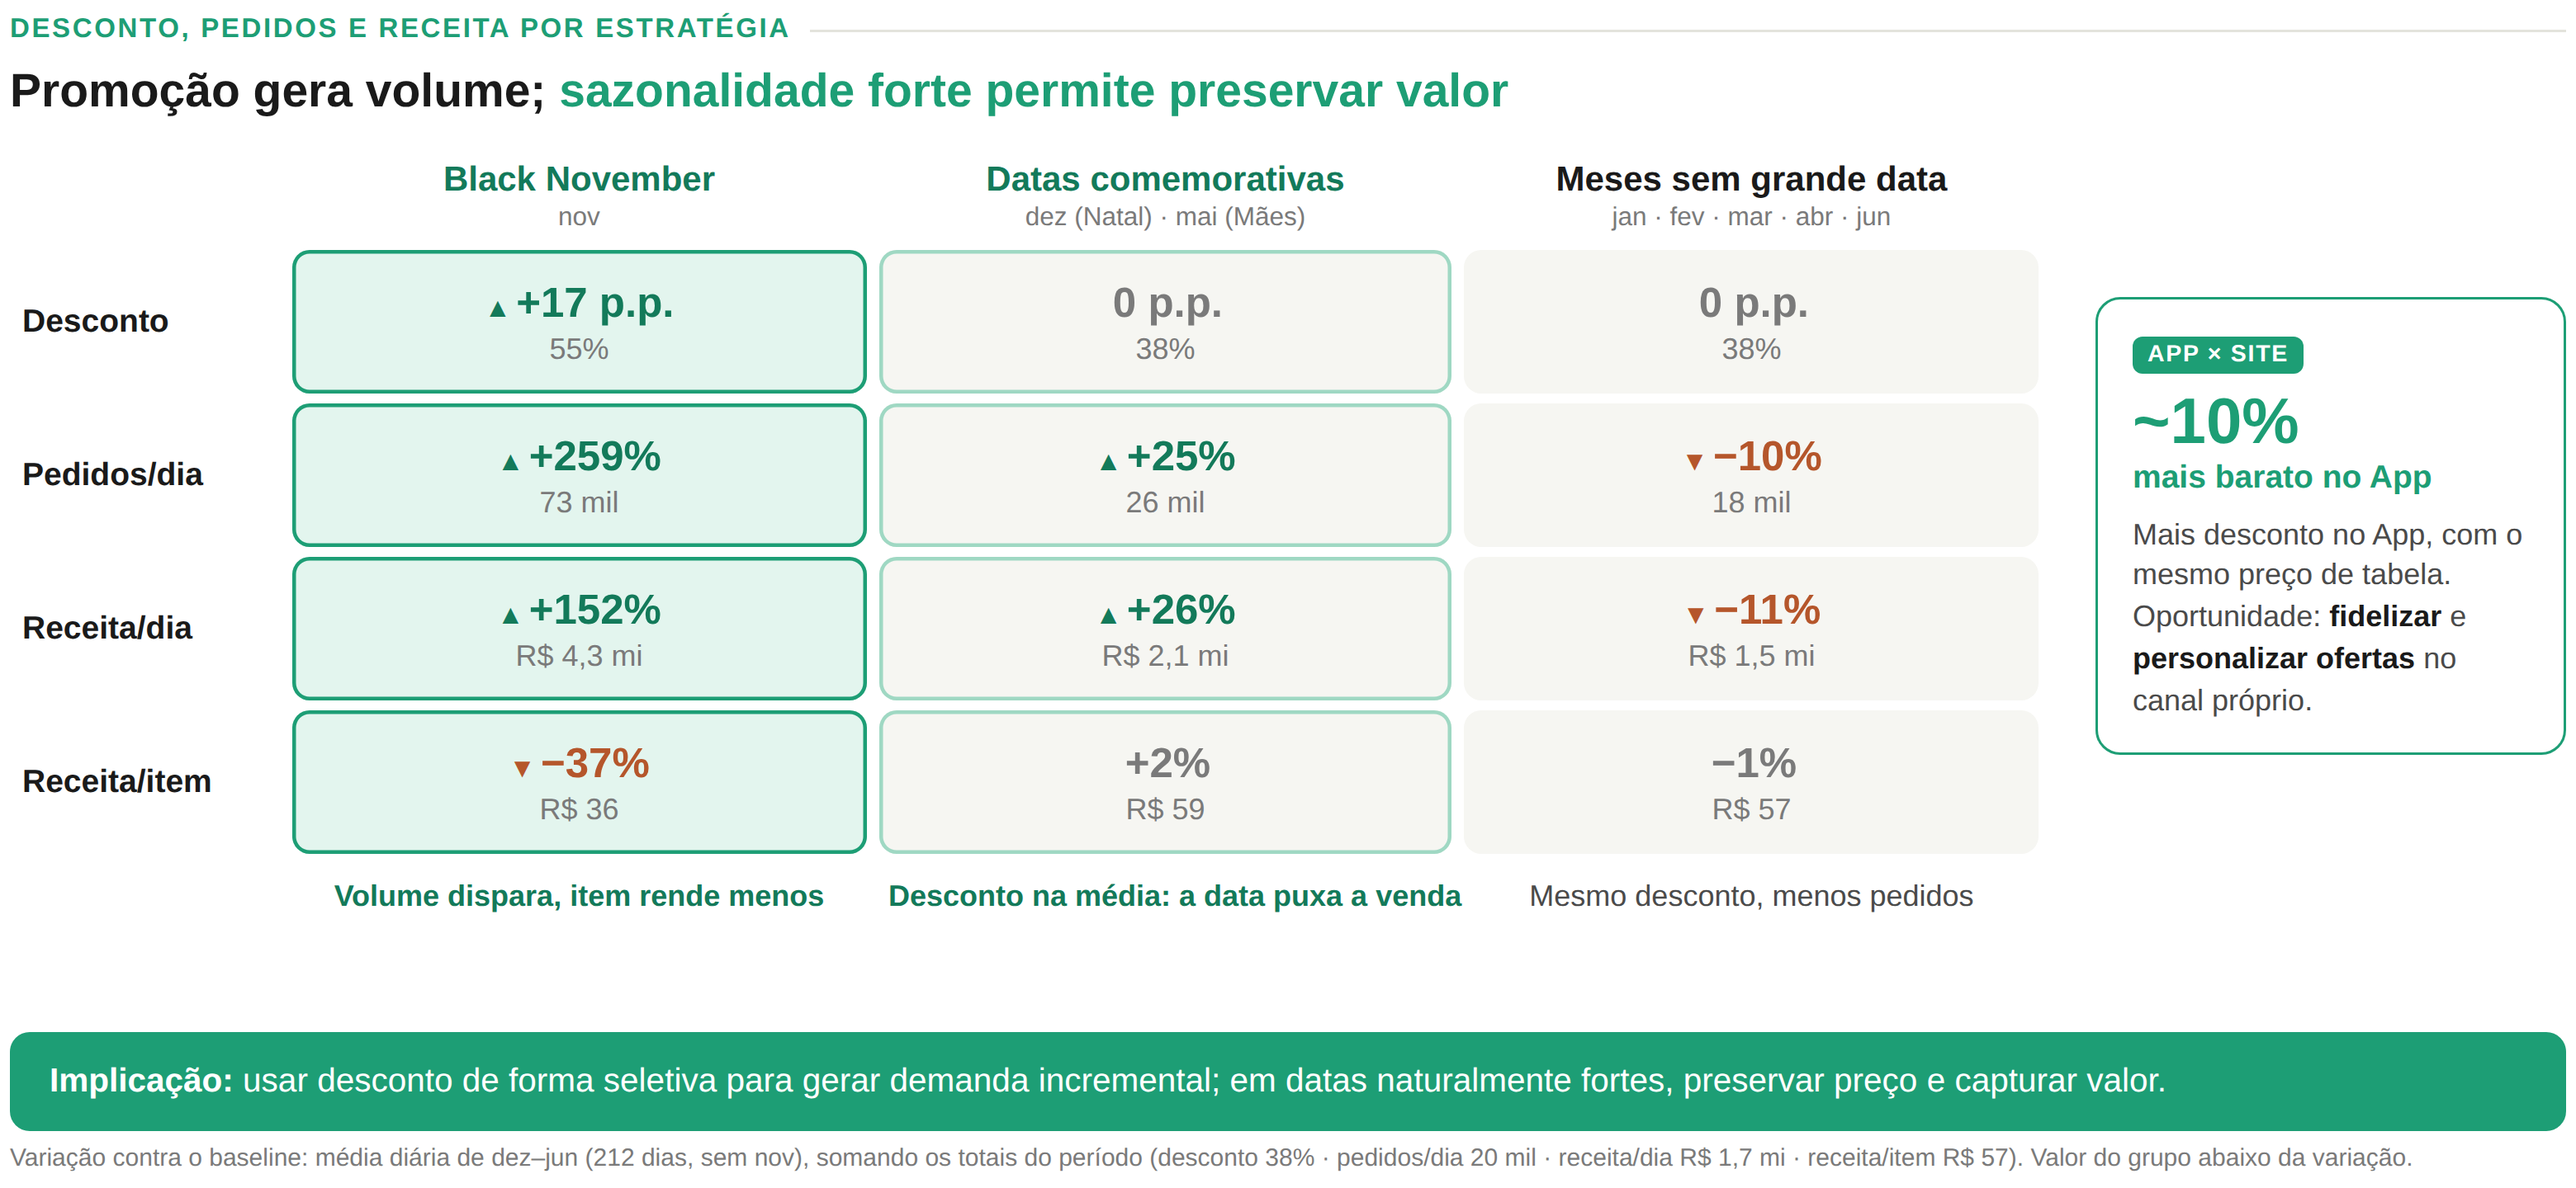
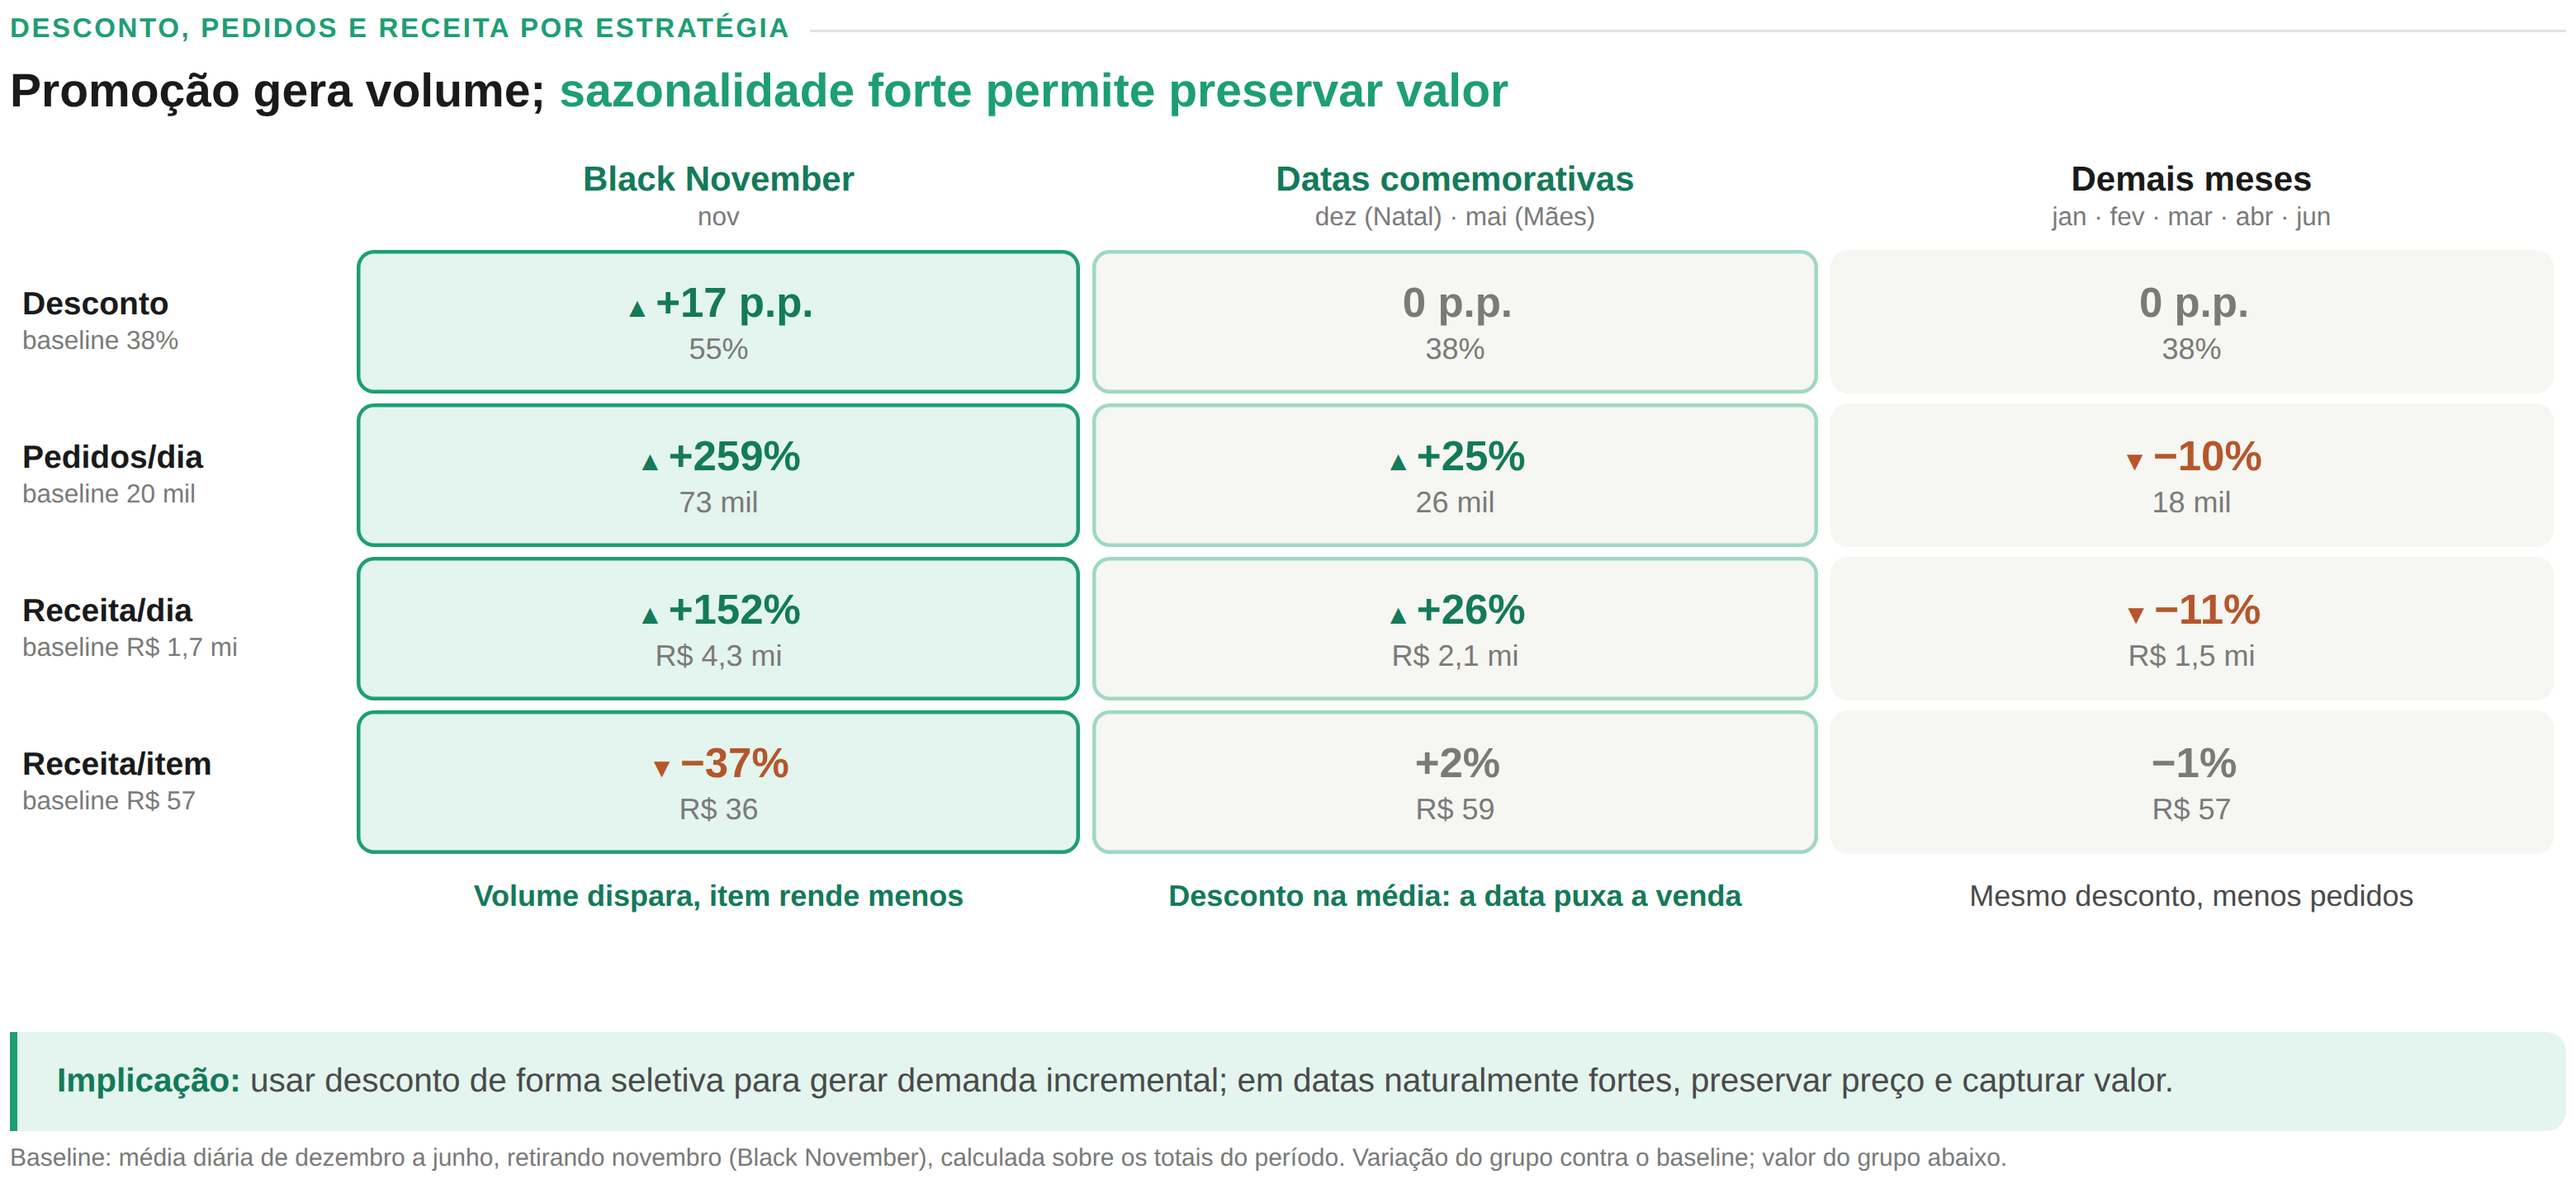
Widget de desconto: sem App × Site, baseline junto das métricas e implicação em tom padrão
Claude-Session: https://claude.ai/code/session_01NUJZKTcM8cs9QBTcUeuacF

diff --git a/apresentacao/widgets/03_desconto.html b/apresentacao/widgets/03_desconto.html
@@ -18,10 +18,11 @@
   h3 { font-size: 19px; line-height: 1.25; font-weight: 700; margin-bottom: 10px; }
   h3 span { color: var(--verde); }
 
-  .corpo { display: grid; grid-template-columns: 1fr 190px; gap: 18px; align-items: start; }
+  .corpo { }
   .matriz { width: 100%; border-collapse: separate; border-spacing: 5px 4px; table-layout: fixed; }
   .matriz th { text-align: center; }
-  .matriz th.linha { width: 104px; text-align: left; font-size: 13px; color: var(--tinta); white-space: nowrap; }
+  .matriz th.linha { width: 130px; text-align: left; font-size: 13px; color: var(--tinta); white-space: nowrap; }
+  .matriz th.linha span { display: block; font-size: 10.5px; font-weight: 400; color: var(--tinta-3); margin-top: 2px; }
   .matriz th.grupo { font-size: 14px; color: var(--tinta); padding-bottom: 3px; }
   .matriz th.grupo span { display: block; font-size: 10.5px; font-weight: 400; color: var(--tinta-3); margin-top: 2px; }
   .matriz th.nov, .matriz th.forte { color: var(--verde-escuro); }
@@ -46,9 +47,9 @@
   .app p { font-size: 12px; color: var(--tinta-2); line-height: 1.4; margin-top: 8px; }
   .app p b { color: var(--tinta); }
 
-  .implicacao { margin-top: auto; background: var(--verde); color: #fff; border-radius: 8px; padding: 11px 16px;
+  .implicacao { margin-top: auto; background: var(--verde-claro); color: var(--tinta-2); border-left: 3px solid var(--verde); border-radius: 0 8px 8px 0; padding: 11px 16px;
                 font-size: 13.5px; line-height: 1.35; }
-  .implicacao b { font-weight: 700; }
+  .implicacao b { font-weight: 700; color: var(--verde-escuro); }
   .nota-base { font-size: 10px; color: var(--tinta-3); margin-top: 6px; }
 </style>
 </head>
@@ -58,16 +59,11 @@
   <h3>Promoção gera volume; <span>sazonalidade forte permite preservar valor</span></h3>
 
   <div class="corpo">
-    <table class="matriz"><tr><th class="linha"></th><th class="grupo nov">Black November<span>nov</span></th><th class="grupo forte">Datas comemorativas<span>dez (Natal) · mai (Mães)</span></th><th class="grupo ">Meses sem grande data<span>jan · fev · mar · abr · jun</span></th></tr><tr><th class="linha">Desconto</th><td class="sobe nov"><div class="delta"><span class="seta">▲</span>+17 p.p.</div><div class="abs">55%</div></td><td class="neutro forte"><div class="delta"><span class="seta"></span>0 p.p.</div><div class="abs">38%</div></td><td class="neutro "><div class="delta"><span class="seta"></span>0 p.p.</div><div class="abs">38%</div></td></tr><tr><th class="linha">Pedidos/dia</th><td class="sobe nov"><div class="delta"><span class="seta">▲</span>+259%</div><div class="abs">73 mil</div></td><td class="sobe forte"><div class="delta"><span class="seta">▲</span>+25%</div><div class="abs">26 mil</div></td><td class="desce "><div class="delta"><span class="seta">▼</span>−10%</div><div class="abs">18 mil</div></td></tr><tr><th class="linha">Receita/dia</th><td class="sobe nov"><div class="delta"><span class="seta">▲</span>+152%</div><div class="abs">R$ 4,3 mi</div></td><td class="sobe forte"><div class="delta"><span class="seta">▲</span>+26%</div><div class="abs">R$ 2,1 mi</div></td><td class="desce "><div class="delta"><span class="seta">▼</span>−11%</div><div class="abs">R$ 1,5 mi</div></td></tr><tr><th class="linha">Receita/item</th><td class="desce nov"><div class="delta"><span class="seta">▼</span>−37%</div><div class="abs">R$ 36</div></td><td class="neutro forte"><div class="delta"><span class="seta"></span>+2%</div><div class="abs">R$ 59</div></td><td class="neutro "><div class="delta"><span class="seta"></span>−1%</div><div class="abs">R$ 57</div></td></tr><tr><th></th><td class="motivo nov">Volume dispara, item rende menos</td><td class="motivo forte">Desconto na média: a data puxa a venda</td><td class="motivo ">Mesmo desconto, menos pedidos</td></tr></table>
-    <div class="app">
-      <span class="selo">App × Site</span>
-      <div class="grande">~10%<small>mais barato no App</small></div>
-      <p>Mais desconto no App, com o mesmo preço de tabela. Oportunidade: <b>fidelizar</b> e <b>personalizar ofertas</b> no canal próprio.</p>
-    </div>
+    <table class="matriz"><tr><th class="linha"></th><th class="grupo nov">Black November<span>nov</span></th><th class="grupo forte">Datas comemorativas<span>dez (Natal) · mai (Mães)</span></th><th class="grupo ">Demais meses<span>jan · fev · mar · abr · jun</span></th></tr><tr><th class="linha">Desconto<span>baseline 38%</span></th><td class="sobe nov"><div class="delta"><span class="seta">▲</span>+17 p.p.</div><div class="abs">55%</div></td><td class="neutro forte"><div class="delta"><span class="seta"></span>0 p.p.</div><div class="abs">38%</div></td><td class="neutro "><div class="delta"><span class="seta"></span>0 p.p.</div><div class="abs">38%</div></td></tr><tr><th class="linha">Pedidos/dia<span>baseline 20 mil</span></th><td class="sobe nov"><div class="delta"><span class="seta">▲</span>+259%</div><div class="abs">73 mil</div></td><td class="sobe forte"><div class="delta"><span class="seta">▲</span>+25%</div><div class="abs">26 mil</div></td><td class="desce "><div class="delta"><span class="seta">▼</span>−10%</div><div class="abs">18 mil</div></td></tr><tr><th class="linha">Receita/dia<span>baseline R$ 1,7 mi</span></th><td class="sobe nov"><div class="delta"><span class="seta">▲</span>+152%</div><div class="abs">R$ 4,3 mi</div></td><td class="sobe forte"><div class="delta"><span class="seta">▲</span>+26%</div><div class="abs">R$ 2,1 mi</div></td><td class="desce "><div class="delta"><span class="seta">▼</span>−11%</div><div class="abs">R$ 1,5 mi</div></td></tr><tr><th class="linha">Receita/item<span>baseline R$ 57</span></th><td class="desce nov"><div class="delta"><span class="seta">▼</span>−37%</div><div class="abs">R$ 36</div></td><td class="neutro forte"><div class="delta"><span class="seta"></span>+2%</div><div class="abs">R$ 59</div></td><td class="neutro "><div class="delta"><span class="seta"></span>−1%</div><div class="abs">R$ 57</div></td></tr><tr><th></th><td class="motivo nov">Volume dispara, item rende menos</td><td class="motivo forte">Desconto na média: a data puxa a venda</td><td class="motivo ">Mesmo desconto, menos pedidos</td></tr></table>
   </div>
 
   <div class="implicacao"><b>Implicação:</b> usar desconto de forma seletiva para gerar demanda incremental; em datas naturalmente fortes, preservar preço e capturar valor.</div>
-  <div class="nota-base">Variação contra o baseline: média diária de dez–jun (212 dias, sem nov), somando os totais do período (desconto 38% · pedidos/dia 20 mil · receita/dia R$ 1,7 mi · receita/item R$ 57). Valor do grupo abaixo da variação.</div>
+  <div class="nota-base">Baseline: média diária de dezembro a junho, retirando novembro (Black November), calculada sobre os totais do período. Variação do grupo contra o baseline; valor do grupo abaixo.</div>
 </div>
 </body>
 </html>

diff --git a/apresentacao/geradores/03_desconto_modelo.html b/apresentacao/geradores/03_desconto_modelo.html
@@ -18,10 +18,11 @@
   h3 { font-size: 19px; line-height: 1.25; font-weight: 700; margin-bottom: 10px; }
   h3 span { color: var(--verde); }
 
-  .corpo { display: grid; grid-template-columns: 1fr 190px; gap: 18px; align-items: start; }
+  .corpo { }
   .matriz { width: 100%; border-collapse: separate; border-spacing: 5px 4px; table-layout: fixed; }
   .matriz th { text-align: center; }
-  .matriz th.linha { width: 104px; text-align: left; font-size: 13px; color: var(--tinta); white-space: nowrap; }
+  .matriz th.linha { width: 130px; text-align: left; font-size: 13px; color: var(--tinta); white-space: nowrap; }
+  .matriz th.linha span { display: block; font-size: 10.5px; font-weight: 400; color: var(--tinta-3); margin-top: 2px; }
   .matriz th.grupo { font-size: 14px; color: var(--tinta); padding-bottom: 3px; }
   .matriz th.grupo span { display: block; font-size: 10.5px; font-weight: 400; color: var(--tinta-3); margin-top: 2px; }
   .matriz th.nov, .matriz th.forte { color: var(--verde-escuro); }
@@ -46,9 +47,9 @@
   .app p { font-size: 12px; color: var(--tinta-2); line-height: 1.4; margin-top: 8px; }
   .app p b { color: var(--tinta); }
 
-  .implicacao { margin-top: auto; background: var(--verde); color: #fff; border-radius: 8px; padding: 11px 16px;
+  .implicacao { margin-top: auto; background: var(--verde-claro); color: var(--tinta-2); border-left: 3px solid var(--verde); border-radius: 0 8px 8px 0; padding: 11px 16px;
                 font-size: 13.5px; line-height: 1.35; }
-  .implicacao b { font-weight: 700; }
+  .implicacao b { font-weight: 700; color: var(--verde-escuro); }
   .nota-base { font-size: 10px; color: var(--tinta-3); margin-top: 6px; }
 </style>
 </head>
@@ -59,15 +60,10 @@
 
   <div class="corpo">
     {{MATRIZ}}
-    <div class="app">
-      <span class="selo">App × Site</span>
-      <div class="grande">~10%<small>mais barato no App</small></div>
-      <p>Mais desconto no App, com o mesmo preço de tabela. Oportunidade: <b>fidelizar</b> e <b>personalizar ofertas</b> no canal próprio.</p>
-    </div>
   </div>
 
   <div class="implicacao"><b>Implicação:</b> usar desconto de forma seletiva para gerar demanda incremental; em datas naturalmente fortes, preservar preço e capturar valor.</div>
-  <div class="nota-base">Variação contra o baseline: média diária de dez–jun (212 dias, sem nov), somando os totais do período ({{BASE}}). Valor do grupo abaixo da variação.</div>
+  <div class="nota-base">Baseline: média diária de dezembro a junho, retirando novembro (Black November), calculada sobre os totais do período. Variação do grupo contra o baseline; valor do grupo abaixo.</div>
 </div>
 </body>
 </html>

diff --git a/apresentacao/geradores/03_desconto.py b/apresentacao/geradores/03_desconto.py
@@ -49,7 +49,7 @@ grupos = [
      "Volume dispara, item rende menos"),
     ("Datas comemorativas", "dez (Natal) · mai (Mães)", ["2025-12", "2026-05"], "forte",
      "Desconto na média: a data puxa a venda"),
-    ("Meses sem grande data", "jan · fev · mar · abr · jun", ["2026-01", "2026-02", "2026-03", "2026-04", "2026-06"], "",
+    ("Demais meses", "jan · fev · mar · abr · jun", ["2026-01", "2026-02", "2026-03", "2026-04", "2026-06"], "",
      "Mesmo desconto, menos pedidos"),
 ]
 
@@ -67,18 +67,17 @@ valores = [totais(mensal[mensal["mes"].isin(meses)]) for _, _, meses, _, _ in gr
 cab = "".join(f'<th class="grupo {destaque}">{nome}<span>{meses_txt}</span></th>'
               for nome, meses_txt, _, destaque, _ in grupos)
 corpo = []
-for titulo, coluna, fmt, tipo, _ in linhas:
+for titulo, coluna, fmt, tipo, ref_txt in linhas:
     tds = []
     for (_, _, _, destaque, _), v in zip(grupos, valores):
         classe, seta, texto = celula(v[coluna], ref[coluna], tipo)
         tds.append(f'<td class="{classe} {destaque}"><div class="delta"><span class="seta">{seta}</span>{texto}</div>'
                    f'<div class="abs">{fmt(v[coluna])}</div></td>')
-    corpo.append(f'<tr><th class="linha">{titulo}</th>{"".join(tds)}</tr>')
+    corpo.append(f'<tr><th class="linha">{titulo}<span>baseline {ref_txt}</span></th>{"".join(tds)}</tr>')
 leitura = "".join(f'<td class="motivo {destaque}">{texto}</td>' for _, _, _, destaque, texto in grupos)
 corpo.append(f'<tr><th></th>{leitura}</tr>')
 tabela = f'<table class="matriz"><tr><th class="linha"></th>{cab}</tr>{"".join(corpo)}</table>'
-base_txt = " · ".join(f"{t.lower()} {r}" for t, _, _, _, r in linhas)
 
 modelo = Path(__file__).with_name("03_desconto_modelo.html").read_text(encoding="utf-8")
-destino.write_text(modelo.replace("{{MATRIZ}}", tabela).replace("{{BASE}}", base_txt), encoding="utf-8")
+destino.write_text(modelo.replace("{{MATRIZ}}", tabela), encoding="utf-8")
 print("ok", destino, {k: round(v, 3) for k, v in ref.items()})
